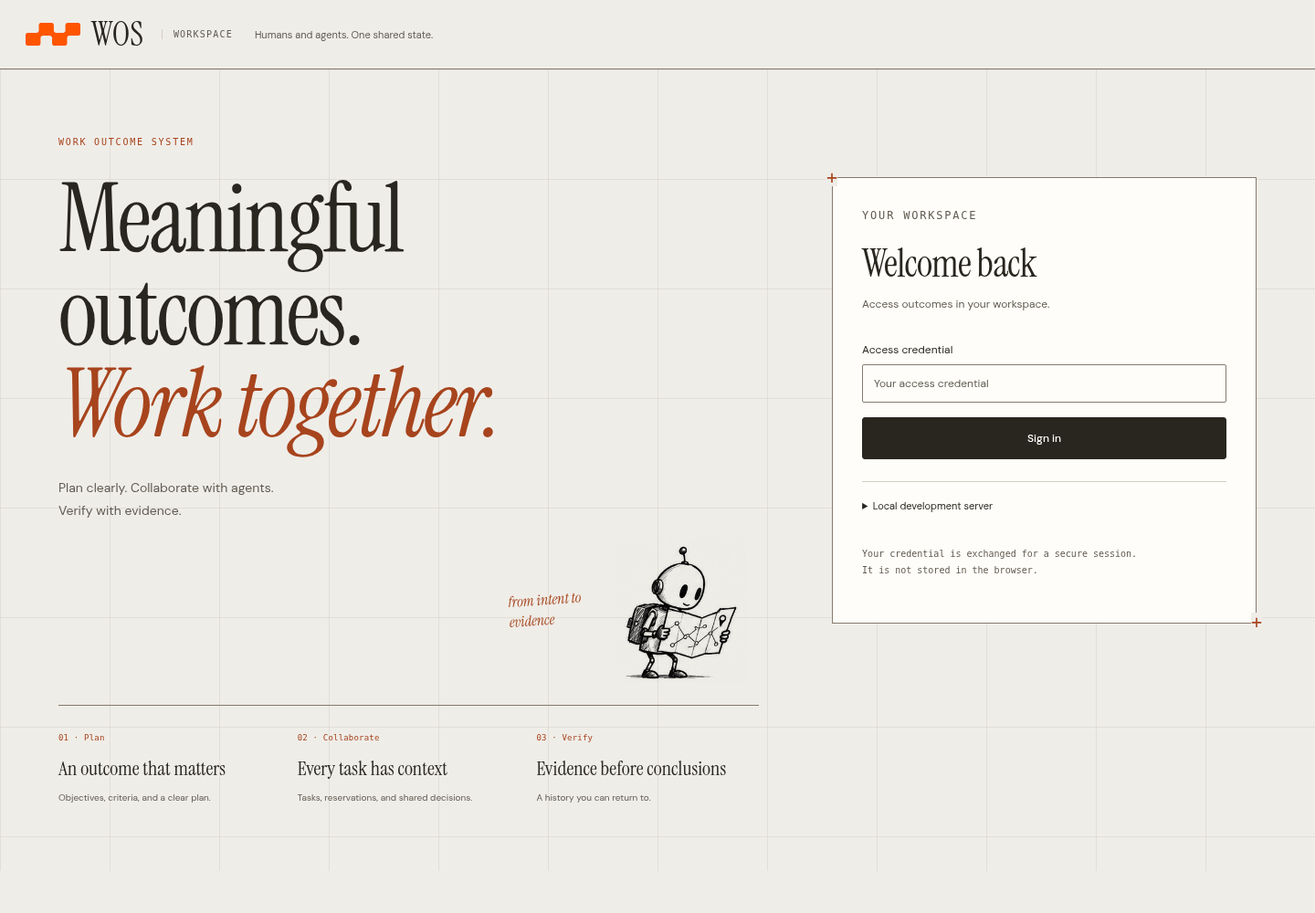
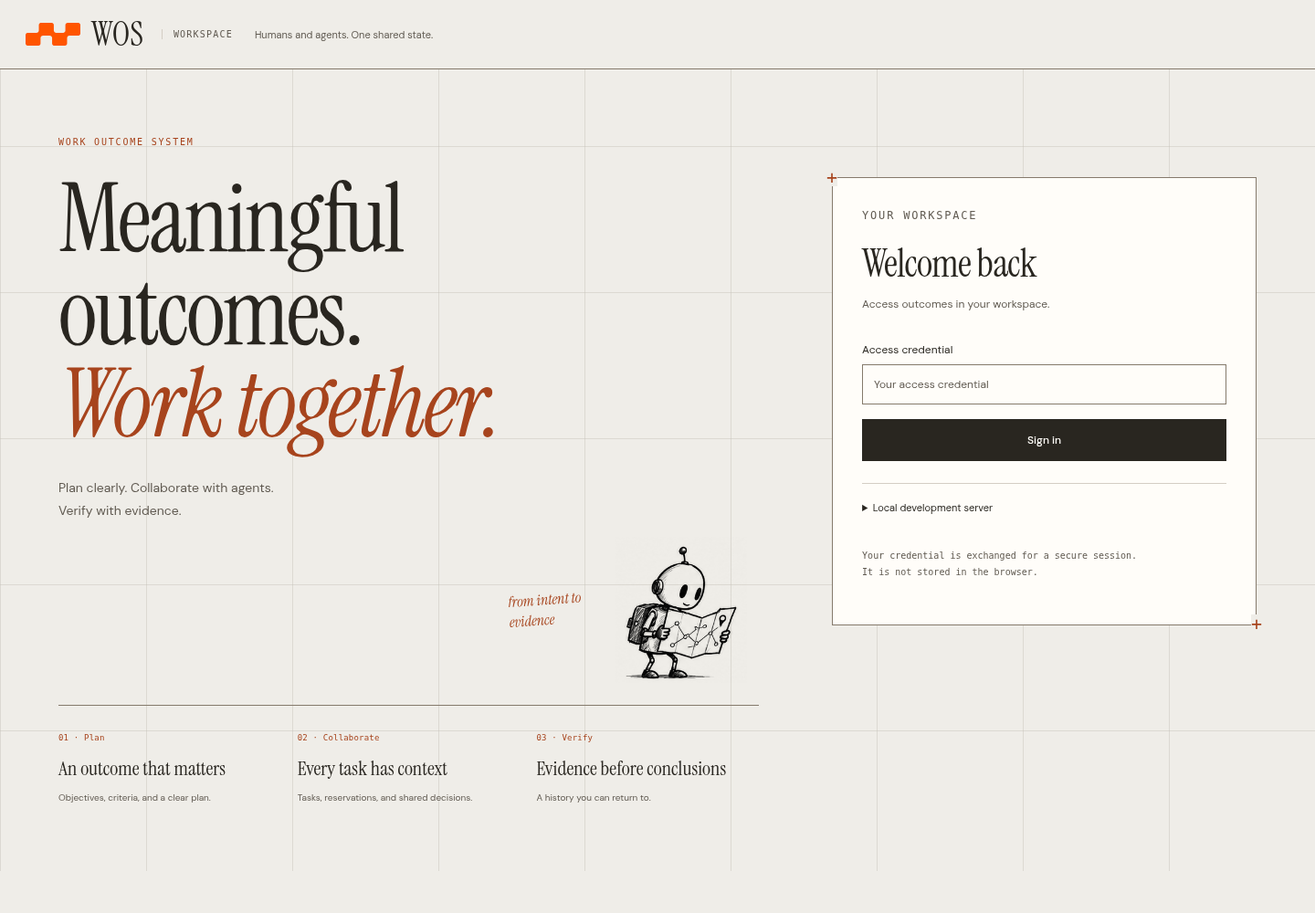
docs(design): record component review and refresh 18 page captures

Changed region(s): [[0.6562, 0.403, 0.9375, 0.496], [0.6562, 0.589, 0.8438, 0.651], [0.6562, 0.527, 0.75, 0.558]]

diff --git a/docs/design/editorial/README.md b/docs/design/editorial/README.md
@@ -8,15 +8,17 @@ This is a presentation change to the six existing areas, authentication screen, 
 
 | Element | Meaning and implementation | Small screens |
 | --- | --- | --- |
-| Paper | Woobe canvas `#EFEDE8`, workspace `#F5F3EF`, surface `#FFFDF9`, and elevated surface `#FFFEFC`; fine, locally served grid `#C2BCB2` | Same warm neutral hierarchy; no competing card stacks |
+| Paper and grids | Woobe canvas `#EFEDE8`, workspace `#F5F3EF`, surface `#FFFDF9`, and elevated surface `#FFFEFC`; continuous 160 px graphic grid `#C2BCB2`, independent of structural columns | Continuous paper and grid; connected sections become one ordered column |
 | Display | Instrument Serif, regular and italic; large on the login, restrained inside the operational workspace | Recomposed headlines that wrap; no horizontal type scaling |
 | Utility type | DM Sans variable for controls; system monospace for metadata | Relative font sizes; readable controls and visible focus |
 | Interaction | Copper `#A7441D` for links, relevant accents, and keyboard focus; selected surface `#F1DFD0` | Same roles, with explicit selected states |
 | Primary actions | Charcoal `#292620`, hover `#403A32`, and on-primary text `#FFFDF9` | Same contrast and interaction states |
+| Secondary actions | Transparent buttons with a fine bottom rule; lighter textual actions; ruled serif action-menu rows | Main controls and close actions have room for touch; List/Board stays a framed switch |
 | Semantic state | Success `#246846`, warning `#865B13`, error `#B23834`, and info `#365F85`; every badge retains a text label | Meaning never relies on color alone |
 | Brand | Supplied modular symbol in `#FF5500` beside the live name WOS in Instrument Serif; official browser icons; distinct from interaction copper | Original symbol proportions and readable editorial lettering; robot artwork remains monochrome |
 | Robot vignettes | User-supplied monochrome pen-and-ink illustrations; each chapter has a relevant action | Smaller, reserved space alongside the introduction |
 | Marginal notes | Brief italic annotations attached to the illustrations | Remain decorative and outside control hit areas |
+| Forms and details | Gridded heading, small ink vignette, one scrolling body, persistent actions, complete control borders, and inset copper field focus | Related fields stack; close and save stay visible as nested content expands |
 | Motion | A small decorative arrival; content is visible in its final composition immediately | No parallax or pinned scrolling; reduced motion disables animation |
 
 The application uses the grammar of the style rather than a literal chess theme. Its operational tables and forms keep their practical density. Instrument Serif is a deliberate font selection, not a claim about the unidentified font in the style reference.
@@ -31,7 +33,11 @@ The palette overrides the original gray/green color suggestions in `chess-style`
 
 ### WOS brand kit
 
-The supplied WOS identity replaces the temporary letter/circle branding in the header, workspace selector, browser icons, and actual loading state. Following the owner's typography correction, the header combines the original orange symbol with WOS rendered as live Instrument Serif text. Chapter labels, the no-JavaScript notice, and the checkpoint message use the same editorial treatment for the product name. Browser titles and accessible names retain their plain text. All 94 supplied media files remain unchanged in the brand library, including the kit's proposed Inter wordmarks, which are references rather than active UI lockups. See [integration decisions, original kit notes, and asset provenance](brand-kit/README.md).
+The header combines the original orange symbol with WOS rendered as live Instrument Serif text. Following the owner's feedback about repetition, it is the only on-page WOS mark: the workspace selector keeps its label, chapter indices identify their actual area, and pending reads use the observer robot beside the existing loading message. The no-JavaScript notice and checkpoint message retain editorial product-name typography; browser titles and accessible names remain plain text. All 94 supplied media files stay unchanged in the brand library, including the proposed Inter lockups retained as references. See [integration decisions, original kit notes, and asset provenance](brand-kit/README.md).
+
+### Component refinement
+
+The [page-to-control review](component-review.md) records the clipping diagnosis and the revised hierarchy. The grid now spans the actual workspace and outer sign-in margins. Connected overview columns, registration marks, small form/settings vignettes, and ruled disclosures extend the style into working components. Command forms, settings, and detail drawers share a single scrolling content region between their heading and actions. Field labels and help use consistent spacing; related selects and permission checkboxes reflow as groups.
 
 Typography is served from the WOS binary. Vendored fonts are from `@fontsource/instrument-serif@5.3.0` and `@fontsource-variable/dm-sans@5.3.0`, distributed under the SIL Open Font License with notices in `packages/wos-api/web/assets/fonts/`. No browser request to a font service is required, and no production JavaScript package was added.
 
@@ -47,6 +53,9 @@ The canonical art prompt is preserved in [the local art skill](../../../.agents/
 | Issues | `16_blocker_sentinel.svg` | Make an impediment visible |
 | Evidence | `06_researcher_books.svg` | Inspect the basis for a conclusion |
 | Activity | `09_documenter_notes.svg` | Keep a durable thread of changes |
+| Command form | `09_documenter_notes.svg` | Record an explicit change to shared state |
+| Workspace settings | `12_key_signature_guardian.svg` | Access and identity administration |
+| Pending Outcome read | `14_observer_metrics.svg` | Observe shared state while a real request is pending |
 | Outcome selection | `17_outcome_flagbearer.svg` | Choose the result to pursue |
 | Sidebar | `18_workspace_organizer.svg` | Keep the workspace organized |
 
@@ -54,7 +63,7 @@ All these illustrations repeat a meaning already present in adjacent text and ha
 
 ## Main pages
 
-These are captures of a real local server using an isolated illustrative database. The demo's records are created through public commands. They are examples, not product metrics, customer evidence, or release certification. Desktop captures use a 1440 × 1000 CSS px viewport with full-page output; mobile captures use 390 × 844 with full-page output.
+These 18 captures use a real local server and an isolated illustrative database. The demo's records are created through public commands. They are examples, not product metrics, customer evidence, or release certification. Desktop viewports are 1440 × 1000 CSS px and mobile viewports are 390 × 844. Pages use full-page output; open dialogs use viewport output to show their actual backdrop, scroll region, and persistent actions.
 
 ### Sign in
 
@@ -94,17 +103,25 @@ These are captures of a real local server using an isolated illustrative databas
 
 ![Workspace settings](screenshots/11-settings.png)
 
+![Expanded task instructions with persistent save action](screenshots/15-expanded-task-form.png)
+
+![Editorial action menu](screenshots/16-action-menu.png)
+
 ### Mobile
 
 | Overview | Work |
 | --- | --- |
 | ![Mobile overview](screenshots/12-mobile-overview.png) | ![Mobile task collection](screenshots/13-mobile-work.png) |
 
+| Mobile Task form | Mobile settings |
+| --- | --- |
+| ![Mobile Task form with separate scroll body and actions](screenshots/17-mobile-task-form.png) | ![Mobile settings with persistent save action](screenshots/18-mobile-settings.png) |
+
 ### Actual loading state
 
-The brand symbol follows the existing pending server request. This capture holds that response in the test fixture; the application adds no deliberate waiting period.
+The observer vignette accompanies the existing pending server request. This capture holds that response in the test fixture; the application adds no deliberate waiting period.
 
-![WOS mark during an actual pending Outcome read](screenshots/14-outcome-loading.png)
+![Observer robot during an actual pending Outcome read](screenshots/14-outcome-loading.png)
 
 ## Reproduce and validate
 

diff --git a/docs/design/editorial/validation.md b/docs/design/editorial/validation.md
@@ -1,6 +1,6 @@
 # Editorial workspace validation
 
-Validated locally on 2026-10-15 (America/Sao_Paulo), against a built native WOS server and isolated SQLite databases. Tooling: Go 1.27.2, Node 24.19.0, locked Playwright 1.62.1, and Chromium 154.0.8037.57 on Linux amd64.
+Validated locally on 2026-10-16 (America/Sao_Paulo), against a built native WOS server and isolated SQLite databases. Tooling: Go 1.27.2, Node 24.19.0, locked Playwright 1.62.1, and Chromium 154.0.8037.57 on Linux amd64.
 
 ## Executed checks
 
@@ -8,9 +8,10 @@ Validated locally on 2026-10-15 (America/Sao_Paulo), against a built native WOS 
 | --- | --- | --- |
 | Native server build | Passed | `go build -p 4 -trimpath -o bin/wos ./packages/wos-api/cmd/wos`; embeds fonts, CSS, JS, grid, robots, and the WOS brand library |
 | Browser unit tests | 14 passed | Action permissions, exact-intent handling, official copy, and six-area routing; the locale gate now includes `editorial.js` |
-| Complete browser suite | 37 passed, no skips | Includes five editorial/palette/brand tests and the 32 existing browser journeys |
+| Complete browser suite | 38 passed, no skips | Includes six editorial/palette/brand/component tests and the 32 existing browser journeys |
 | Woobe palette | Passed | All 25 Light color tokens match the supplied README; browser assertions cover canvas, copper text/focus, charcoal primary/hover, selection, success, warning, and error roles |
-| Supplied WOS brand | Passed | 94 media files preserved byte for byte; all 80 SVGs retain the master path. Browser checks verify the undistorted symbol and live WOS name in Instrument Serif regular, matching editorial headings at 1440/390/320 px and the chapter label. All six chapter labels and the no-JavaScript product mention are checked. Declared SVG/PNG/ICO/Apple icons decode, the compatibility favicon matches, and actual request loading is exercised |
+| Supplied WOS brand | Passed | 94 media files preserved byte for byte; all 80 SVGs retain the master path. Browser checks verify the undistorted symbol and live WOS name in Instrument Serif regular, matching editorial headings at 1440/390/320 px. Exactly one on-page brand image is present, including during a pending read. All six area labels and the no-JavaScript product mention are checked. Declared SVG/PNG/ICO/Apple icons decode and the compatibility favicon matches |
+| Nested forms and complete controls | Passed | At 1440 × 1000, 390 × 844, 320 × 740, landscape 740 × 390, and 768 × 1024 with a 28 px root font: measure full border/focus clearance against the scrolling body, hit testing, footer overlap, outer-dialog scrolling, control height, and page width. Exercise selects, keyboard reference selection, expanded instructions, repeatable rows, date input, permission checkbox, credential text field, persistent actions, and real Task save/detail |
 | Automated accessibility | Passed within the browser suite | axe login, overview, common Task form, and reference combobox: no critical/serious violations in the configured WCAG 2/2.1/2.2 AA tag set; this is not a claim of complete conformance |
 | Keyboard and reflow | Passed | Creation, reference selection, confirmation, focus restoration, mobile actions, 200% and 400% equivalent reflow |
 | Editorial layout matrix | Passed | All six areas at 1920 × 1080, 1440 × 900, 1280 × 800, 768 × 1024, 390 × 844, 360 × 740, and 320 × 740; no page-level horizontal overflow |
@@ -18,13 +19,13 @@ Validated locally on 2026-10-15 (America/Sao_Paulo), against a built native WOS 
 | Real workflow coverage | Passed | Outcome planning, list/board, permissions and revocation, HTTP/MCP work, evidence review, signed independent review/correction, immutable history, and reload/continuation |
 | Go web/HTTP/server packages | Passed | `go test -p 4 ./packages/wos-api/web ./packages/wos-api/http ./packages/wos-api/internal/server` |
 | Static analysis | Passed | `go vet -p 4` on the same three affected packages |
-| Skill package | Passed | `scripts/validate_package.py`: structure, 62 tokens, 10 study crops, internal links, token output, and package hashes; does not claim a visual/browser audit of the skill's starter |
+| Skill package | Passed in the earlier setup run | `scripts/validate_package.py`: structure, 62 tokens, 10 study crops, internal links, token output, and package hashes; the package is unchanged in this refinement |
 | Git whitespace | Passed | `git diff --check` |
-| Main-page gallery | 14 actual captures | Refreshed main pages plus the real request-loading state; [gallery](README.md#main-pages) and [capture/source hashes](screenshots.json) |
+| Main-page gallery | 18 actual captures | Refreshed main pages and pending read, plus expanded instructions, action menu, mobile Task form, and mobile settings; [gallery](README.md#main-pages) and [capture/source hashes](screenshots.json) |
 
 The gallery was generated by `editorial.spec.mjs` through public commands against a fresh database. It contains synthetic example titles and state, with no user credentials or external customer data. The chapter capture test checks loaded artwork and unexpected console/page errors. The signed-out namespace discovery's expected 401 is distinguished from an asset or application failure.
 
-The current gallery combines the approved editorial composition, Woobe Light colors, the supplied WOS symbol, and the owner's requested editorial typography for the name WOS. The palette README is archived byte for byte in [woobe-palette-source.md](woobe-palette-source.md), with separate [brand provenance](brand-kit/README.md). Robot and font hashes were checked against the original asset manifest and remain unchanged. Build, the three targeted Go package tests, and vet were repeated after the typography correction. The broader Go suite below records the earlier complete run; it was not repeated for these presentation refinements.
+The current gallery combines the approved editorial composition, Woobe Light colors, one supplied WOS symbol, and the owner's requested editorial typography for the name. The [component review](component-review.md) records the top-down analysis and clipping diagnosis. Page captures use full-page output; open dialogs use viewport captures so that the backdrop, body, and footer match the visible interface. The palette README is archived byte for byte in [woobe-palette-source.md](woobe-palette-source.md), with separate [brand provenance](brand-kit/README.md). Robot, brand, and font bytes remain unchanged. Build, the three targeted Go package tests, and vet were repeated after the component refinement. The broader Go suite below records the earlier complete run; it was not repeated for these presentation refinements.
 
 ## Broader Go suite: existing failure
 
@@ -41,7 +42,7 @@ This UI work leaves the historical fixture, system time, assertions, and domain 
 
 ## Limits
 
-- The 37 browser tests passed together in the final typography correction run. An earlier stale-cursor test encountered a timing failure during the original redesign and then passed in isolation and subsequent complete runs; its assertions and production reference-picker logic were preserved.
+- The 38 browser tests passed together in the final component refinement run. An earlier stale-cursor test encountered a timing failure during the original redesign and then passed in isolation and subsequent complete runs; its assertions and production reference-picker logic were preserved.
 - Chromium/Linux automation and the listed viewport matrix do not certify other browser engines, physical devices, production deployment, or PostgreSQL parity.
 - Screen-reader evaluation, representative-user review, visual approval by the owner, and full manual accessibility acceptance remain pending.
 - Authored text in other scripts uses system fallbacks; the vendored Latin fonts match the official English interface.

diff --git a/docs/design/editorial/component-review.md b/docs/design/editorial/component-review.md
@@ -1,0 +1,45 @@
+# Page and component review — 2026-10-16
+
+The owner's feedback identified inconsistent button borders, repeated WOS symbols, limited use of the style's grids, clipped form/select edges, and underdeveloped areas of the page. The approved editorial direction, Woobe colors, Instrument Serif product name, and original robot artwork remain the basis of this revision.
+
+## Review method and scope
+
+The review followed the rendered hierarchy: page → workspace shell → Outcome → area → collection/detail → form → field group → control and its states. Source inspection covered both the dedicated human forms and the schema-based administration/technical forms, plus reference discovery, repeatable lists, roadmap rows, context/participant editors, signed review, conflict recovery, and the shared field renderer.
+
+The `chess-style` references informed the composition: continuous paper, independent graphic and structural grids, typographic scale, small ink scenes, purposeful marginal notes, and readable static states. These are adapted to an operational workspace. The skill's original gray/green suggestions remain superseded by the owner's Woobe palette. Its evidence images are study material and are not embedded in the site.
+
+## Findings from the original implementation
+
+At a 1440 × 1000 viewport, the command dialog was capped at 900 px, while the form could occupy 848 px plus 64 px of dialog padding and 2 px of border. The resulting dialog had **14 px of extra outer scrolling**, in addition to the separately scrolling `#fields`. Its header, general help, fields, and footer therefore used incompatible height budgets. Mobile had a similar 2 px mismatch. Focusing a control could scroll either ancestor, and a select could meet the scroll boundary immediately above the footer.
+
+Field labels inherited a 16 px bottom margin, controls added a 7 px top margin, and the form grid added another gap. Related selects occupied separate full-width rows. The settings dialog scrolled its entire header and save action out of view; its permission checkboxes formed a long single column even on desktop.
+
+At page level, the graphic grid restarted inside the area introduction and disappeared from the actual workspace. The overview used detached sections with little structural connection. The official symbol appeared in the header, workspace selector, and pending-read state; chapter labels repeated the product name rather than identifying the area. Button variants mixed filled rectangles, outlined rectangles, circles, and joined tabs through overlapping component rules.
+
+## Composition and interaction decisions
+
+| Level | Result | Interaction with its children |
+| --- | --- | --- |
+| Global page | One WOS symbol with live Instrument Serif lettering in the header; browser icons retain the supplied brand | Workspace selection remains a labeled native select; it does not repeat the global symbol |
+| Sign-in | Continuous fine grid across the paper, including the outer margins; wider desktop composition | Existing native credential form and static/no-JavaScript narrative remain accessible |
+| Workspace | Continuous 160 px graphic grid under the full article | Structural columns organize content independently; controls retain opaque reading surfaces |
+| Area introduction | Number and actual area name, serif headline, relevant robot, italic marginal note, small registration crosses | Decorations remain outside hit areas; a rule connects the introduction to its data |
+| Overview | Connected editorial columns and a prominent desired-state passage; recent work spans the adjacent context/attention sections on desktop | The content uses actual counts and records; it becomes one ordered column at the existing breakpoint |
+| Collections | Ruled rows and a framed List/Board switch | Row focus stays inside the collection; list overflow no longer clips its focus outline |
+| Actions | Primary action filled in charcoal; secondary actions use a bottom rule; textual actions remain light; action menu uses serif rows | Hover, focus, selected, disabled, and pending states retain their existing behavior; labels and dispatch permissions are unchanged |
+| Command and settings dialogs | Gridded heading with a small relevant robot, one scrolling body, separate persistent action footer | The form height subtracts the outer border; fields/errors/conflicts/history are inside the body, while close and save remain reachable |
+| Detail drawer | Persistent heading and actions around one scrolling content region | Long descriptions, proof, contracts, and history scroll without a footer overlay or negative offsets |
+| Fields | Label, control, then helper text; full rectangular borders and copper inset focus on text/select controls | Helpers are connected with `aria-describedby`; checkbox labels stay beside the control; native selection and validation are preserved |
+| Related fields | Priority and initial state share a row on desktop; permissions use two columns | Both become one column below 600 px; field getters, selected values, and payloads remain unchanged |
+| Nested editors | Disclosures use ruled boundaries, references keep their bounded listbox, and repeatable rows stay within the form body | Expanding instructions/Advanced, adding rows, choosing references, and entering dates share the same scroll context; no added global listener or animation loop |
+| Pending read | Existing observer robot beside the live loading message | Visibility follows the real request; no second WOS symbol, artificial delay, or simulated progress |
+
+The main graphic grid is the existing original SVG, scaled consistently across the operational surface. Registration crosses are local CSS geometry. No new illustration, third-party component package, color system, or backend capability was introduced.
+
+## Verification
+
+The browser regression traverses the form's nested structure at 1440 × 1000, 390 × 844, 320 × 740, landscape 740 × 390, and 768 × 1024 with a doubled 28 px root font. It selects priority/state, expands instructions and Advanced, adds an instruction, selects an authorized Objective with the keyboard, focuses the native date field, and saves a real Task. The resulting detail must retain the authored instruction.
+
+Focused controls are measured against their **scroll ancestor**, including their visible border/focus clearance, rather than only against the viewport. The test checks occlusion, footer overlap, extra outer-dialog scrolling, minimum control height, and page overflow. Settings checks cover its operation select, a permission checkbox at the end of the list, persistent save action, and the credential form's text field. Existing browser journeys cover checkbox submission, roadmap reordering, external context, conflicts, uncertain-response retries, reference authorization/pagination, signed independent review, and keyboard focus restoration.
+
+See [the executed validation record](validation.md) and [updated gallery](README.md#main-pages). Dialog captures use the viewport so that the backdrop and action footer represent what the user actually sees; page captures retain full-page output. Automated Chromium checks and visual inspection do not replace manual screen-reader or other-engine acceptance.

diff --git a/docs/design/editorial/brand-kit/README.md b/docs/design/editorial/brand-kit/README.md
@@ -19,15 +19,15 @@ The [original README](README.source.md) and [original SVG index](ASSET_INDEX.sou
 | Placement | Supplied asset | Integration |
 | --- | --- | --- |
 | Header | `01-marca/wos-symbol-primary.svg` plus live WOS text | Original 194 × 82 symbol at 60 px desktop and 48 px mobile; Instrument Serif regular name at 36 px and 32 px respectively |
-| Other product-name mentions | Live WOS text in `.product-name` | Instrument Serif regular in all six chapter labels, the no-JavaScript notice, and the checkpoint's local-changes message; authored content is preserved |
-| Workspace identity | `04-navegacao/wos-sidebar-light.svg` | Replaces the temporary letter W beside the namespace selector |
+| Other product-name mentions | Live WOS text in `.product-name` | Instrument Serif regular in the no-JavaScript notice and the checkpoint's local-changes message; authored content is preserved |
 | Modern favicon | `03-favicon-app/favicon.svg` | Served byte for byte at the existing `/app/favicon.svg` URL |
 | Browser fallbacks | `12-png-web/favicon.ico`, `favicon-32.png` | Declared as real icon resources in the document head |
 | Apple Touch | `12-png-web/apple-touch-icon-180.png` | Declared as the 180 × 180 touch icon |
 | Browser application identity | Application name WOS and theme color `#FF5500` | Uses the supplied brand color for browser chrome |
-| Actual Outcome loading | `01-marca/wos-symbol-primary.svg` | Static master symbol beside the existing live status; visible only while the server read is pending |
 
-The header link retains the accessible name **WOS · home**. Images repeating that identity or nearby status text use empty alternatives. The name uses the existing locally served Instrument Serif font with Georgia/Times/serif fallbacks. No supplied image is stretched, cropped, redrawn, or recolored. Browser metadata remains plain text. The loading mark adds no artificial wait or animation requirement.
+The header link retains the accessible name **WOS · home**. Images repeating that identity or nearby status text use empty alternatives. The name uses the existing locally served Instrument Serif font with Georgia/Times/serif fallbacks. No supplied image is stretched, cropped, redrawn, or recolored. Browser metadata remains plain text.
+
+The owner subsequently asked to remove repeated WOS icons. The header is now the only on-page brand mark. The workspace selector relies on its functional label, chapter indices show the actual area name, and pending reads use the supplied observer robot with the existing status message. Navigation and loading SVG variants remain intact in the asset library. No artificial wait or animation was added.
 
 ## Asset library and provenance
 
@@ -37,6 +37,6 @@ The existing robots and locally served fonts remain unchanged. The kit's catalog
 
 ## Verification and page captures
 
-The brand browser test checks the accessible home link, loaded symbol, original aspect ratio, readable live name, and absence of page overflow at 1440, 390, and 320 px. It verifies that the name uses the loaded Instrument Serif face at weight 400, matching the editorial heading and chapter label. The chapter gallery checks the WOS label in all six areas. The test also decodes every declared browser/touch icon and checks the compatibility favicon against the supplied bytes. A held continuity response demonstrates that the brand loading state follows a real pending request and disappears after it completes.
+The brand browser test checks the accessible home link, loaded symbol, original aspect ratio, readable live name, and absence of page overflow at 1440, 390, and 320 px. It verifies that the name uses the loaded Instrument Serif face at weight 400, matching the editorial heading. The test asserts that only one brand image exists on the page, including during a held pending read. The chapter gallery checks the actual area labels. Declared browser/touch icons decode and the compatibility favicon matches the supplied bytes. The pending-read vignette disappears when the real response completes.
 
 See the refreshed [main-page gallery](../README.md#main-pages), including [the controlled loading capture](../screenshots/14-outcome-loading.png), and the [validation record](../validation.md). The loading screenshot uses a test-held response solely to capture the existing asynchronous state; the application has no deliberate delay.

diff --git a/ROADMAP.md b/ROADMAP.md
@@ -2,7 +2,7 @@
 
 **Status document:** live and mandatory  
 **Canonical design:** `docs/WOS_Design_Arquitetura_Planejamento_Atualizado.md`  
-**Last reviewed:** 2026-10-15
+**Last reviewed:** 2026-10-16
 **Current target:** Stable 1.0 hardening; public npm package wosctl
 **Current wave:** A — reconcile 0.4.0 distribution as one native wosctl npm package; human validation remains pending
 
@@ -58,8 +58,9 @@ The architecture document describes what should exist. This ROADMAP records what
 - [x] Preserve existing scoped actions, explicit lifecycle changes, independent review, URL navigation, and API contracts.
 - [x] Serve licensed font assets locally with system fallbacks; preserve the supplied skill packages and robot artwork.
 - [x] Document the visual system, art direction, asset provenance, and page gallery generated from an isolated real-server dataset.
-- [x] Apply the supplied WOS web identity to the header, workspace selector, browser/touch icons, and actual request-loading state; preserve the 94 original media assets and master silhouette in all 80 SVGs. Follow the owner's typography correction: the original symbol accompanies live WOS lettering in Instrument Serif, also used for product-name mentions across the interface. Retain the approved editorial composition and Woobe operational palette.
-- [x] Complete final presentation validation: 37 browser tests and 14 browser unit tests passed, including palette and brand checks; targeted Go tests and vet passed. Refresh the 14 page/state captures. Record the earlier broader suite's existing expired-fixture failure and its 75 skips separately in [validation](docs/design/editorial/validation.md); do not claim an entirely green Go suite.
+- [x] Apply the supplied WOS web identity to the header and browser/touch icons; preserve the 94 original media assets and master silhouette in all 80 SVGs. The original symbol accompanies live Instrument Serif lettering. Following the repetition feedback, keep one on-page brand mark, functional area/workspace labels, and an observer robot during pending reads.
+- [x] Review page-to-control composition and correct shared button borders, continuous grids, connected overview sections, dialog sizing/scrolling, select/focus clipping, grouped fields, nested editors, and persistent actions; document the [component review](docs/design/editorial/component-review.md). Preserve the approved direction and Woobe palette.
+- [x] Complete final presentation validation: 38 browser tests and 14 browser unit tests passed, including palette, brand, and nested-form geometry/interactions; targeted Go tests and vet passed. Refresh and extend the gallery to 18 page/state captures. Record the earlier broader suite's existing expired-fixture failure and its 75 skips separately in [validation](docs/design/editorial/validation.md); do not claim an entirely green Go suite.
 - [ ] Independent human review, screen-reader validation, and other-browser acceptance; not implied by automated checks or screenshots.
 
 Publication and merging remain separate owner actions. No merge is authorized by this design task.

diff --git a/CHANGELOG.md b/CHANGELOG.md
@@ -3,7 +3,8 @@
 ## Unreleased
 
 - Redesign the human workspace with an editorial paper-and-ink visual system, the Woobe operational palette, locally served typography, and the supplied monochrome robot illustrations across all six areas; include responsive page captures and design documentation.
-- Apply the supplied WOS modular symbol, workspace symbol, real loading mark, and browser/touch icons; render the name WOS in the site's Instrument Serif typography while preserving the editorial layout and Woobe palette.
+- Apply the supplied WOS modular symbol and browser/touch icons; render the name WOS in the site's Instrument Serif typography while preserving the editorial layout and Woobe palette.
+- Refine the workspace from page composition down to controls: continuous grids, connected sections, consistent button rules, one on-page WOS mark, single-scroll forms/details, complete select/focus borders, grouped fields, persistent save actions, and expanded desktop/mobile component captures.
 
 ## 0.4.2 — prepared for release
 
